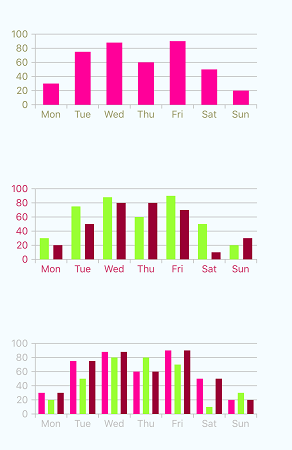
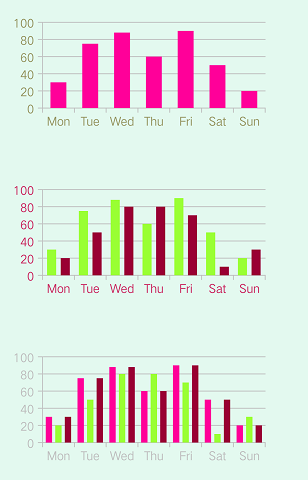
update:重构重绘

Changed region(s): [[0.0308, 0.0311, 0.863, 0.28], [0.0308, 0.3733, 0.8938, 0.6222], [0.0308, 0.7156, 0.8938, 0.9644]]

diff --git a/example/Circle_Ellipse.js b/example/Circle_Ellipse.js
@@ -1,19 +1,28 @@
 import React, { Component} from "react";
 import { View, StyleSheet, ScrollView, Animated, Text, TouchableOpacity} from "react-native";
 import Circle from '../elements/Circle';
-let option1 = {
+import Ellipse from '../elements/Ellipse';
+let option = {
     r: 80,
-    fill: 'rgb(245, 252, 255)',
-    strokeWidth: 2,
-    stroke: '#FF0033'
-}
-let option2 = {
-    r: 80,
-    fill: '#FFFF00',
+    fill: '#FF99CC',
     strokeWidth: 2,
     stroke: '#66CCFF'
 }
-export default class CircleDemo extends Component{
+let option1 = {
+    rx: 80,
+    ry: 40,
+    fill: '#FFFF66',
+    strokeWidth: 2,
+    stroke: '#66CCFF'
+}
+let option2 = {
+    rx: 40,
+    ry: 80,
+    fill: '#CC99FF',
+    strokeWidth: 2,
+    stroke: '#66CCFF'
+}
+export default class CircleEllipseDemo extends Component{
     constructor(props){
         super(props)
     }
@@ -21,7 +30,7 @@ export default class CircleDemo extends Component{
         return(
             <View style={{
                 flex:1,
-                backgroundColor: 'rgb(245, 252, 255)'
+                backgroundColor: 'rgba(255, 255, 204, 0.5)'
             }}>
                 <ScrollView
                     contentContainerStyle={{
@@ -31,13 +40,17 @@ export default class CircleDemo extends Component{
                         alignItems: 'center'
                     }}
                 >
-                    <Circle
+                    <Ellipse
+                        option={option2}
+                        width={300}
+                        height={165}
+                    />
+                    <Ellipse
                         option={option1}
                         width={300}
-                        height={170}
                     />
                     <Circle
-                        option={option2}
+                        option={option}
                         width={300}
                         height={170}
                     />

diff --git a/example/Line.js b/example/Line.js
@@ -1,21 +1,8 @@
 import React, { Component} from "react";
 import { View, StyleSheet, ScrollView, Animated, Text, TouchableOpacity} from "react-native";
-import Ellipse from '../elements/Ellipse';
-let option1 = {
-    rx: 80,
-    ry: 40,
-    fill: '#FFFF66',
-    strokeWidth: 2,
-    stroke: '#FF0000'
-}
-let option2 = {
-    rx: 40,
-    ry: 80,
-    fill: '#CC99FF',
-    strokeWidth: 2,
-    stroke: '#660000'
-}
-export default class EllipseDemo extends Component{
+import Line from '../elements/Line';
+const data = {"interval":300,"maxY":127600,"minY":126400,"yAxis":[126542,126488,126912,127079,127150,127220,127220],"xAxis":["6.24","6.25","6.26","6.27","6.28","6.29","6.30"]};
+export default class LineDemo extends Component{
     constructor(props){
         super(props)
     }
@@ -23,7 +10,7 @@ export default class EllipseDemo extends Component{
         return(
             <View style={{
                 flex:1,
-                backgroundColor: 'rgb(245, 252, 255)'
+                backgroundColor: 'rgba(255, 255, 204, 0.5)'
             }}>
                 <ScrollView
                     contentContainerStyle={{
@@ -33,14 +20,13 @@ export default class EllipseDemo extends Component{
                         alignItems: 'center'
                     }}
                 >
-                    <Ellipse
-                        option={option1}
-                        width={300}
-                    />
-                    <Ellipse
-                        option={option2}
-                        width={300}
-                        height={165}
+                    <Line
+                        leftOffset={60}
+                        rightOffset={60}
+                        height={160}
+                        xAxisSplitHidden={true}
+                        data={data}
+                        xAxisDescText={'日期'}
                     />
                 </ScrollView>
             </View>

diff --git a/example/Rect_Polygon.js b/example/Rect_Polygon.js
@@ -1,25 +1,35 @@
 import React, { Component} from "react";
 import { View, StyleSheet, ScrollView, Animated, Text, TouchableOpacity} from "react-native";
 import Rect from '../elements/Rect';
+import Polygon from '../elements/Polygon';
 const option = {
-    x: 2,
-    y: 2,
-    strokeWidth: 2,
-    stroke: '#CCFF99',
-    fill: '#FF9900',
-    width: 100,
-    height: 100
-};
-const option3 = {
     x: 2,
     y: 2,
     strokeWidth: 2,
     stroke: '#FF9900',
     fill: '#CCFF99',
-    width: 200,
+    width: 160,
     height: 100
 };
-export default class RectDemo extends Component{
+const option1 = {
+    radius: 70,
+    startAngle: 0,
+    lineNumber: 6,
+    opacity: 1,
+    fill: '#66FFCC',
+    strokeWidth: 2,
+    stroke: '#FF0099'
+};
+const option2 = {
+    radius: 80,
+    startAngle: 90,
+    lineNumber: 7,
+    opacity: 1,
+    fill: 'CCFF99',
+    strokeWidth: 2,
+    stroke: '#FFCC00'
+};
+export default class RectPolygonDemo extends Component{
     constructor(props){
         super(props)
     }
@@ -40,13 +50,10 @@ export default class RectDemo extends Component{
                     <Rect
                         option={option}
                         height={104}
-                        width={104}
+                        width={164}
                     />
-                    <Rect
-                        option={option3}
-                        height={110}
-                        width={210}
-                    />
+                    <Polygon option={option1} height={144} />
+    			    <Polygon option={option2} height={164} />
                 </ScrollView>
             </View>
         )

diff --git a/elements/Line.js b/elements/Line.js
@@ -1,9 +1,3 @@
-/*
- * @Author: jasonmiao 
- * @Date: 2019-04-09 16:45:09 
- * @Last Modified by: jasonmiao
- * @Last Modified time: 2019-04-24 15:32:25
- */
 import React, { Component } from "react"
 import {
     View,
@@ -214,7 +208,7 @@ export default class Line extends Component {
             {
                 showTips ? (<View style={[styles.button, { left: this.chartOffsetX + tipsLeft, bottom: this.surfaceHeight - tipsBottom }]}>
                     <View style={{
-                        width: 40, height: 20, backgroundColor: this.tipsBackgroundColor, justifyContent: 'center',
+                        width: 45, height: 20, backgroundColor: this.tipsBackgroundColor, justifyContent: 'center',
                         alignItems: 'center', borderRadius: 2
                     }}><Text style={{ color: this.tipsTextColor, fontSize: 12 }}>{tipsValue}</Text></View>
                     <View style={[styles.arrow, {borderTopColor:this.tipsBackgroundColor}]}></View></View>) : null

diff --git a/example/Radar.js b/example/Radar.js
@@ -185,9 +185,6 @@ let option2 = {
 		}
 	}]
 };
-// let option1 = JSON.stringify(option);
-// option1 = JSON.parse(option1);
-// option1.shape = 'polygon';
 export default class RadarDemo extends Component{
 	constructor(props) {
 		super(props);
@@ -200,20 +197,11 @@ export default class RadarDemo extends Component{
 			option1: option1
 		};
 	}
-	onPress = () => {
-		// option.series[0]['data'] = [].concat([20, 30, 50, 10, 88, 95]);
-		// let option1 = JSON.stringify(option);
-		// option1 = JSON.parse(option1);
-		option.shape = 'polygon';
-		this.setState({
-			option: option
-		});
-	}
   	render() {
   		let {option, option1} = this.state;
 		return (<View style={{
             flex: 1,
-            backgroundColor: 'rgb(245, 252, 255)'
+            backgroundColor: 'rgba(255, 191, 203, 0.3)'
 		}}>
 			<ScrollView
                 contentContainerStyle={{

diff --git a/example/Scatter.js b/example/Scatter.js
@@ -1,0 +1,26 @@
+import React, { Component} from "react";
+import { View, StyleSheet, ScrollView, Animated, Text, TouchableOpacity} from "react-native";
+import Scatter from '../elements/Scatter';
+export default class ScatterDemo extends Component{
+    constructor(props){
+        super(props)
+    }
+    render(){
+        return(
+            <View style={{
+                flex:1,
+                backgroundColor: 'rgb(245, 252, 255)'
+            }}>
+                <ScrollView
+                    contentContainerStyle={{
+                        flex: 1,
+                        justifyContent: 'center',
+                        alignItems: 'center'
+                    }}
+                >
+                    <Scatter />
+                </ScrollView>
+            </View>
+        )
+    }
+}

diff --git a/example/Pie.js b/example/Pie.js
@@ -47,7 +47,7 @@ export default class PieDemo extends Component{
         return(
             <View style={{
                 flex:1,
-                backgroundColor: 'rgb(245, 252, 255)'
+                backgroundColor: 'rgba(153, 255, 204, 0.2)'
             }}>
                 <ScrollView contentContainerStyle={{
                     marginVertical: 30,

diff --git a/example/Bar.js b/example/Bar.js
@@ -186,7 +186,7 @@ export default class BarDemo extends Component {
     	return (<ScrollView
     		style={{
                 flex: 1,
-                backgroundColor: 'rgb(245, 252, 255)'
+                backgroundColor: 'rgba(153, 255, 204, 0.2)'
     		}}
     		contentContainerStyle={{
                 marginVertical: 30,

diff --git a/elements/Scatter.js b/elements/Scatter.js
@@ -1,9 +1,3 @@
-/*
- * @Author: jasonmiao 
- * @Date: 2019-04-24 15:55:03 
- * @Last Modified by: jasonmiao
- * @Last Modified time: 2019-04-26 15:19:50
- */
 import React, { Component } from "react"
 import {
     View,

diff --git a/elements/Pie.js b/elements/Pie.js
@@ -1,5 +1,4 @@
 /*
-* 测试art 饼图 ， sallyywang
 
 * @Params
 
@@ -20,7 +19,6 @@
     }]
 }
 */
-
 import React, {Component} from 'react'
 import {
     View,

diff --git a/elements/Funnel.js b/elements/Funnel.js
@@ -1,5 +1,4 @@
 /*
-* 测试art  Funnel(漏斗图)， sallyywang
 
 * @Params
 

diff --git a/elements/Rect.js b/elements/Rect.js
@@ -1,5 +1,4 @@
 /*
-* 测试art  rect ， sallyywang
 
 * @Params
 
